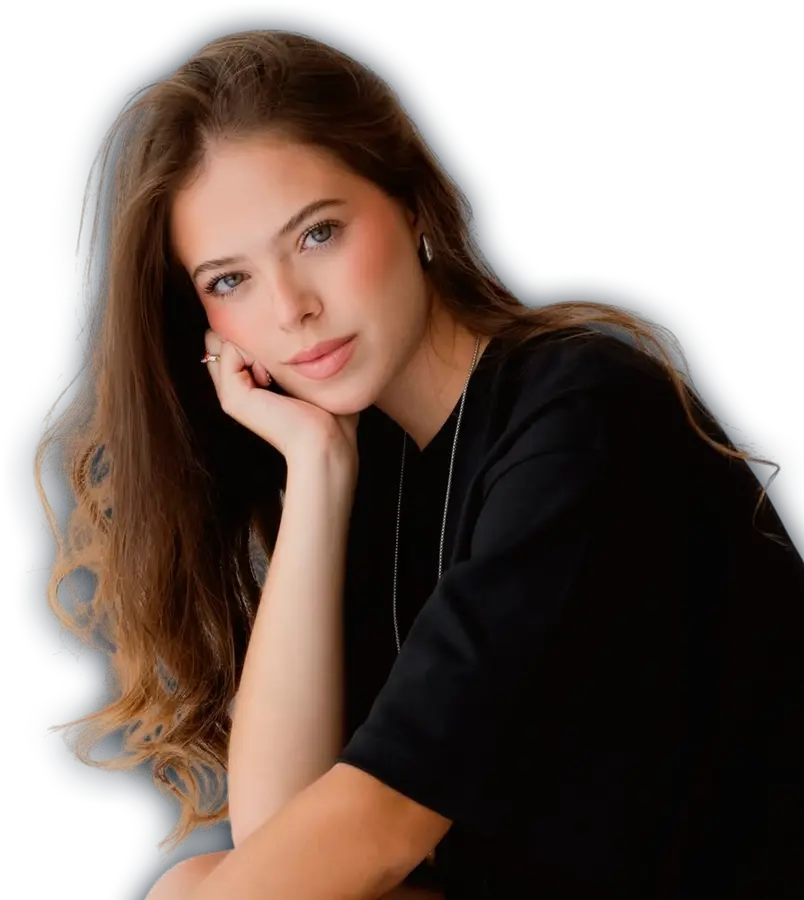
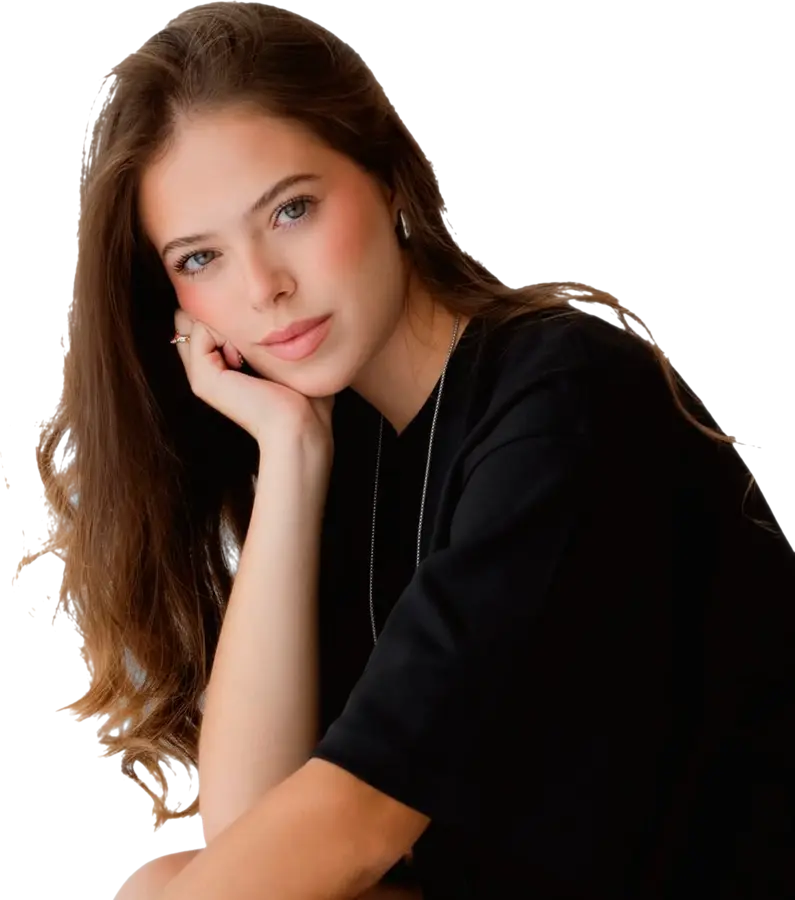
Servicios en tarjetas con color, recortes limpios en el hero y fotos completas en el carrusel del roster
Claude-Session: https://claude.ai/code/session_01SuvxyYVc2tik9nicTMXZsR

diff --git a/index.html b/index.html
@@ -88,8 +88,8 @@ p{margin:0}
 .hero .cta{display:flex;gap:.9rem;flex-wrap:wrap}
 .cast{position:relative;z-index:1;flex:1;min-height:clamp(300px,46svh,560px);margin-top:clamp(.5rem,2vw,2rem);display:flex;align-items:flex-end;justify-content:center;padding-inline:var(--gutter)}
 .cast img{position:relative;flex:1 1 0;min-width:0;max-width:340px;width:auto;height:var(--h,100%);margin-inline:-5.5vw;object-fit:contain;object-position:50% 100%;
-  -webkit-mask-image:radial-gradient(ellipse 62% 78% at 50% 72%,#000 62%,transparent 100%);mask-image:radial-gradient(ellipse 62% 78% at 50% 72%,#000 62%,transparent 100%);
-  filter:drop-shadow(0 0 36px rgba(0,0,0,.85));translate:0 36px;opacity:0;animation:rise 1.4s var(--ease) forwards;animation-delay:calc(var(--i) * .12s + .2s);
+  -webkit-mask-image:linear-gradient(90deg,transparent,#000 5%,#000 95%,transparent);mask-image:linear-gradient(90deg,transparent,#000 5%,#000 95%,transparent);
+  filter:drop-shadow(0 12px 28px rgba(0,0,0,.55));translate:0 36px;opacity:0;animation:rise 1.4s var(--ease) forwards;animation-delay:calc(var(--i) * .12s + .2s);
   transform:translateX(calc(var(--px,0) * var(--k,1) * 1px))}
 .cast img:nth-child(1){--h:90%;--k:-6}.cast img:nth-child(2){--h:100%;--k:-3}.cast img:nth-child(3){--h:94%;--k:2}.cast img:nth-child(4){--h:100%;--k:4}.cast img:nth-child(5){--h:88%;--k:7}
 @keyframes rise{to{opacity:1;translate:0 0}}
@@ -126,11 +126,11 @@ section{position:relative}
 .car{overflow:hidden;mask-image:linear-gradient(90deg,transparent,#000 5%,#000 95%,transparent);-webkit-mask-image:linear-gradient(90deg,transparent,#000 5%,#000 95%,transparent)}
 .car-t{display:flex;width:max-content;gap:1.1rem;animation:mq 64s linear infinite}
 .car:hover .car-t,.car:focus-within .car-t{animation-play-state:paused}
-.pc{position:relative;flex:none;width:clamp(240px,23vw,330px);aspect-ratio:3/4.1;border-radius:calc(var(--radius) * .7);overflow:hidden;background:radial-gradient(90% 60% at 50% 22%,#2c2c2c,#0b0b0b 74%);border:1px solid var(--line);display:block;transition:border-color .5s var(--ease),transform .7s var(--ease)}
+.pc{position:relative;flex:none;width:clamp(240px,23vw,330px);aspect-ratio:3/4.1;border-radius:calc(var(--radius) * .7);overflow:hidden;background:#111;border:1px solid var(--line);display:block;transition:border-color .5s var(--ease),transform .7s var(--ease)}
 .pc:hover{border-color:rgba(255,255,255,.4);transform:translateY(-6px)}
-.pc img{position:absolute;left:0;right:0;bottom:0;width:100%;height:84%;object-fit:contain;object-position:50% 100%;transition:transform 1s var(--ease)}
-.pc:hover img{transform:scale(1.05)}
-.pc::after{content:"";position:absolute;inset:auto 0 0 0;height:56%;background:linear-gradient(transparent,rgba(0,0,0,.9));pointer-events:none}
+.pc img{position:absolute;inset:0;width:100%;height:100%;object-fit:cover;object-position:var(--pos,50% 20%);transition:transform 1.2s var(--ease)}
+.pc:hover img{transform:scale(1.06)}
+.pc::after{content:"";position:absolute;inset:auto 0 0 0;height:50%;background:linear-gradient(transparent,rgba(0,0,0,.55) 38%,rgba(0,0,0,.92));pointer-events:none}
 .pc .in{position:absolute;z-index:2;left:0;right:0;bottom:0;padding:1.3rem 1.4rem 1.4rem;display:grid;gap:.35rem}
 .pc b{font-family:var(--display);font-weight:600;font-size:clamp(1.3rem,1.8vw,1.7rem);letter-spacing:-.035em;line-height:1.1}
 .pc span.t{font-size:.66rem;letter-spacing:.2em;text-transform:uppercase;color:#bdbdbd;line-height:1.5}
@@ -162,11 +162,19 @@ section{position:relative}
 .quote{margin-top:clamp(4rem,8vw,8rem);border-top:1px solid var(--line-dark);padding-top:clamp(2.5rem,5vw,4.5rem);font-family:var(--display);font-weight:500;font-size:clamp(1.5rem,3.2vw,3rem);line-height:1.18;letter-spacing:-.04em;max-width:23em;text-wrap:balance}
 
 /* services */
-.svc{border-top:1px solid var(--line)}
-.svc-row{display:grid;grid-template-columns:minmax(0,1.1fr) minmax(0,1fr);gap:2rem;align-items:baseline;padding:clamp(1.6rem,3vw,2.6rem) 0;border-bottom:1px solid var(--line);transition:padding .6s var(--ease)}
-.svc-row:hover{padding-left:1.2rem}
-.svc-row h3{font-size:clamp(1.5rem,2.7vw,2.6rem)}
-.svc-row p{color:#bdbdbd;max-width:30rem}
+.svc{display:grid;grid-template-columns:repeat(6,minmax(0,1fr));gap:1rem}
+.sv{grid-column:span 2;border-radius:clamp(20px,2.4vw,32px);padding:clamp(1.4rem,2.4vw,2.2rem);min-height:clamp(250px,23vw,330px);display:flex;flex-direction:column;justify-content:space-between;gap:2.5rem;transition:transform .7s var(--ease)}
+.sv:nth-child(n+4){grid-column:span 3}
+.sv:hover{transform:translateY(-6px)}
+.sv .ic{width:54px;height:54px;border-radius:50%;border:1px solid currentColor;display:grid;place-items:center;opacity:.9}
+.sv .ic svg{width:24px;height:24px;stroke:currentColor;fill:none;stroke-width:1.5;stroke-linecap:round;stroke-linejoin:round}
+.sv h3{font-size:clamp(1.4rem,2.2vw,2rem);letter-spacing:-.035em;margin-bottom:.8rem}
+.sv p{font-size:.98rem;line-height:1.6;max-width:30rem}
+.sv.k1{background:var(--paper);color:var(--ink)}.sv.k1 p{color:#3a3a3a}
+.sv.k2{background:#1c1c1c}.sv.k2 p{color:#c4c4c4}
+.sv.k3{background:transparent;border:1px solid rgba(255,255,255,.28)}.sv.k3 p{color:#c4c4c4}
+.sv.k4{background:#2c2c2c}.sv.k4 p{color:#cfcfcf}
+.sv.k5{background:#d9d7d2;color:var(--ink)}.sv.k5 p{color:#2e2e2e}
 .brandcopy{margin-top:clamp(3rem,6vw,5rem);display:grid;grid-template-columns:1fr 1fr;gap:clamp(2rem,6vw,7rem);color:#bdbdbd}
 .brandcopy h3{font-size:clamp(1.6rem,3vw,2.8rem);color:var(--paper)}
 
@@ -293,7 +301,8 @@ form{display:grid;gap:2rem}
   .hd .cta-h{display:none}
   .about-top,.ceo,.consult,.faq-grid,.ct,.p-hero,.p-body,.brandcopy{grid-template-columns:minmax(0,1fr)}
   .faq-grid h2{position:static}
-  .svc-row{grid-template-columns:minmax(0,1fr);gap:.8rem}
+  .svc{grid-template-columns:minmax(0,1fr)}
+  .sv,.sv:nth-child(n+4){grid-column:auto;min-height:0}
   .trust-h,.ft-grid{grid-template-columns:minmax(0,1fr)}
   .hero-in{grid-template-columns:minmax(0,1fr)}
   .ceo figure{max-width:420px}
@@ -431,7 +440,7 @@ form{display:grid;gap:2rem}
   <div class="wrap">
     <div class="sec-h">
       <div data-rv><div class="eyebrow">Servicios</div><h2 style="margin-top:1.6rem">Formamos <em>íconos</em> globales</h2></div>
-      <p data-rv>Descubre nuestros servicios de élite.</p>
+      <p data-rv>Cinco servicios de élite para marcas, creadores y artistas.</p>
     </div>
     <div class="svc" id="svc"></div>
     <div class="brandcopy" data-rv>
@@ -549,7 +558,7 @@ var T=[
  m:[["Instagram","146.000","@camilarmasg","Una comunidad fiel que responde a reels visualmente potentes, estética lifestyle premium y conceptos de storytelling episódico."],["TikTok","160.000","@camilarmasg","Una audiencia activa y atenta a las tendencias, enganchada a series adictivas, realidades diarias sin filtro y curaduría de belleza orgánica."],["YouTube","1.960","@camilarmasg","Vlogs largos y cuidados, pensados para una inmersión lifestyle de calidad y una integración profunda de marca."]],
  brands:["b-c2","b-c3","b-c4","b-c5","b-c6"],
  collab:[["Integración episódica nativa","Alineación estratégica de producto tejida dentro de sus series insignia, que convierte a una audiencia activa y retenida en consumidores fieles de la marca."],["Reels y stories aspiracionales","Conceptos de contenido visualmente superiores sobre lifestyle, moda y belleza, adaptados a la estética de campañas premium."],["Tendencias orgánicas","Formatos de video corto, rápidos y entretenidos en TikTok e Instagram, donde el mensaje de marca se integra con naturalidad en momentos culturales cotidianos."]]},
-{slug:"michi-paredes",img:"michi",first:"Michi",last:"Paredes",short:"Lifestyle · Belleza · Bienestar",
+{slug:"michi-paredes",img:"michi",pos:"50% 15%",first:"Michi",last:"Paredes",short:"Lifestyle · Belleza · Bienestar",
  tag:"Storytelling estético, belleza y bienestar orgánico que construye confianza real en la comunidad.",
  bio:["Michi Paredes es creadora de contenido enfocada en lifestyle, belleza y bienestar. Comparte su día a día con honestidad y muestra rutinas, experiencias y momentos que conectan de forma natural con su audiencia.","Con una mezcla de autenticidad, estética y cercanía, Michi ofrece a las marcas una forma real y efectiva de conectar con una comunidad comprometida."],
  niches:["Lifestyle estético","Belleza profesional","Bienestar diario y vlogging","Curaduría de viajes"],
@@ -563,14 +572,14 @@ var T=[
  m:[["Instagram","6.100.000","@nicolegarcia","Una audiencia masiva construida sobre confianza absoluta, conexión diaria con su lifestyle y tendencias de belleza y moda de alto impacto."],["TikTok","14.800.000","@nicolegarcia","Una comunidad masiva y ultra comprometida que interactúa a diario con vlogs espontáneos, conceptos virales y entretenimiento sin filtro."],["YouTube","1.040.000","@nicolegarcia","Storytelling inmersivo y vlogging diario que inspira a millones y ofrece el puente ideal para alianzas profundas y orgánicas con marcas."]],
  brands:["b-n1","b-n2","b-n3","b-n4","b-n5"],
  collab:[["Integración orgánica y entretenida","Mensajes de marcas globales integrados en el flujo diario de su contenido a través de tendencias nativas, para una conexión orgánica y sin filtros con millones de espectadores."],["Reels y stories aspiracionales","Formatos cortos visualmente potentes, hechos a medida de los sectores lifestyle y belleza, que generan engagement masivo inmediato."],["YouTube y long-form","Apariciones dedicadas y vlogs diarios inmersivos que permiten un storytelling de marca más profundo y un nivel inigualable de conversión basada en confianza."]]},
-{slug:"valeria-carruyo",img:"valeria",first:"Valeria",last:"Carruyo",short:"Moda de alta gama · Belleza · Lifestyle",
+{slug:"valeria-carruyo",img:"valeria",pos:"68% 20%",first:"Valeria",last:"Carruyo",short:"Moda de alta gama · Belleza · Lifestyle",
  tag:"Curaduría de alta gama y alcance multiplataforma que redefinen la influencia digital moderna.",
  bio:["Valeria Carruyo es una creadora de contenido y modelo venezolana nacida en Maracaibo en 2003. Lanzó su carrera en 2020, durante la pandemia, y acumuló millones de seguidores con sus videos de baile y lip-sync.","Con un estilo auténtico y versátil, ha colaborado con marcas internacionales y aparecido en videoclips, y se ha convertido en una de las figuras digitales más influyentes de Venezuela, con más de 12 millones de seguidores en sus plataformas."],
  niches:["Moda de alta gama","Curaduría de belleza","Lifestyle","Conceptos de tendencia dinámicos"],
  m:[["Instagram","1.600.000","@valeriascarruyo","Contenido visualmente potente, ideal para integrar marcas a través de reels, imágenes o stories aspiracionales y estéticos."],["TikTok","9.300.000","@valeriacarruyo","Contenido entretenido y orgánico donde las marcas se integran con naturalidad en tendencias o momentos del día a día."]],
  brands:["b-v1","b-v2","b-v3","b-v4","b-v5"],
  collab:[["Contenido patrocinado","Lookbooks de moda con curaduría estética, rutinas de belleza e integración en video corto pensados para la máxima velocidad en el algoritmo."],["Apariciones en videoclips","Su formación en baile y su magnética presencia en pantalla, para promociones de alto impacto de temas y campañas de sellos."],["Embajadora global","Su formación en baile y su magnética presencia en pantalla, al servicio de iniciativas de embajadora de marca."]]},
-{slug:"zcira",img:"zcira",first:"Zcira",last:"",short:"Pop alternativo · R&B · Moda masculina",
+{slug:"zcira",img:"zcira",pos:"62% 20%",first:"Zcira",last:"",short:"Pop alternativo · R&B · Moda masculina",
  tag:"Une el pop alternativo y el R&B con masculinidad de alta moda e intención artística.",
  bio:["ZCIRA, nacido como Juan Pablo Ciravegna, es un artista y modelo argentino de 24 años de Buenos Aires. Combina pop alternativo y R&B para crear un sonido auténtico y emocional.","Con una presencia magnética y colaboraciones con marcas como Azzaro y Kappa, destaca como una de las estrellas emergentes de la moda argentina. Se ha presentado en escenarios locales y trabaja en su primer proyecto original para consolidar su identidad artística y dar el salto a la escena internacional."],
  niches:["Pop alternativo y R&B","Moda masculina de alta gama","Modelaje profesional","Expresión artística"],
@@ -606,15 +615,16 @@ $("#lanes").innerHTML=lane(sh.slice(0,cut),false)+lane(sh.slice(cut),true);
 
 /* roster carousel (continuous, random order) */
 var cart=$("#cart");
-function card(t,dup){return '<a class="pc" href="#talento-'+t.slug+'"'+(dup?' aria-hidden="true" tabindex="-1"':'')+'><span class="go" aria-hidden="true">↗</span><img src="a/'+t.img+'.webp" alt="'+(dup?"":esc(full(t)))+'" loading="lazy"><span class="in"><b>'+esc(full(t))+'</b><span class="t">'+esc(t.short)+'</span></span></a>'}
+function card(t,dup){return '<a class="pc" href="#talento-'+t.slug+'"'+(dup?' aria-hidden="true" tabindex="-1"':'')+'><span class="go" aria-hidden="true">↗</span><img src="a/card-'+t.img+'.webp" alt="'+(dup?"":esc(full(t)))+'" loading="lazy" style="--pos:'+(t.pos||"50% 20%")+'"><span class="in"><b>'+esc(full(t))+'</b><span class="t">'+esc(t.short)+'</span></span></a>'}
 var order=shuffle(T),cs="";
 for(var k=0;k<2;k++)order.forEach(function(t){cs+=card(t,false)});
 var half=cs;
 cart.innerHTML=half+half.replace(/<a class="pc"/g,'<a aria-hidden="true" tabindex="-1" class="pc"');
 
 /* services */
-var S=[["Influencer marketing","Diseñamos y ejecutamos campañas estratégicas lideradas por creadores que elevan las marcas y generan resultados medibles."],["Representación de creadores","Representación de largo plazo, negociación de campañas, estrategia de marca personal y soporte operativo para el talento firmado."],["Campañas de música","Casting estratégico de creadores, planificación de lanzamientos y dirección de contenido para proyectos musicales que buscan tracción cultural."],["Consultoría","Acompañamiento premium para creadores, marcas y artistas que necesitan un posicionamiento más nítido, infraestructura de crecimiento y claridad en sus campañas."],["Búsqueda y desarrollo de talento","Identificación y desarrollo de creadores emergentes con la identidad, los estándares y el encaje con su comunidad necesarios para escalar."]];
-$("#svc").innerHTML=S.map(function(s,i){return '<div class="svc-row" data-rv><h3>'+s[0]+'</h3><p>'+s[1]+'</p></div>'}).join("");
+var IC={"mega": "<path d=\"M3 11v2a1 1 0 0 0 1 1h2l5 4V6L6 10H4a1 1 0 0 0-1 1z\"/><path d=\"M15.5 8.5a5 5 0 0 1 0 7\"/><path d=\"M18 6a8.5 8.5 0 0 1 0 12\"/>", "user": "<circle cx=\"12\" cy=\"8\" r=\"3.5\"/><path d=\"M5 20a7 7 0 0 1 14 0\"/>", "note": "<path d=\"M9 18V6l10-2v12\"/><circle cx=\"6.5\" cy=\"18\" r=\"2.5\"/><circle cx=\"16.5\" cy=\"16\" r=\"2.5\"/>", "spark": "<path d=\"M12 3l1.8 5.2L19 10l-5.2 1.8L12 17l-1.8-5.2L5 10l5.2-1.8z\"/><path d=\"M19 17v4M17 19h4\"/>", "search": "<circle cx=\"11\" cy=\"11\" r=\"6.5\"/><path d=\"M20 20l-4.2-4.2\"/>"};
+var S=[["Influencer marketing","Diseñamos y ejecutamos campañas estratégicas lideradas por creadores que elevan las marcas y generan resultados medibles.","mega"],["Representación de creadores","Representación de largo plazo, negociación de campañas, estrategia de marca personal y soporte operativo para el talento firmado.","user"],["Campañas de música","Casting estratégico de creadores, planificación de lanzamientos y dirección de contenido para proyectos musicales que buscan tracción cultural.","note"],["Consultoría","Acompañamiento premium para creadores, marcas y artistas que necesitan un posicionamiento más nítido, infraestructura de crecimiento y claridad en sus campañas.","spark"],["Búsqueda y desarrollo de talento","Identificación y desarrollo de creadores emergentes con la identidad, los estándares y el encaje con su comunidad necesarios para escalar.","search"]];
+$("#svc").innerHTML=S.map(function(x,i){return '<article class="sv k'+(i+1)+'" data-rv><span class="ic"><svg viewBox="0 0 24 24" aria-hidden="true">'+IC[x[2]]+'</svg></span><div><h3>'+x[0]+'</h3><p>'+x[1]+'</p></div></article>'}).join("");
 
 /* talent panel */
 var panel=$("#panel"),openIdx=-1,lastFocus=null;
